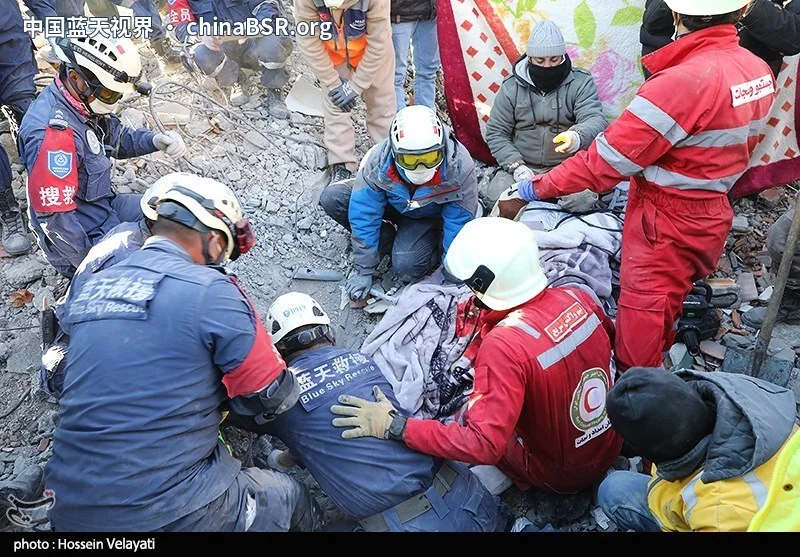
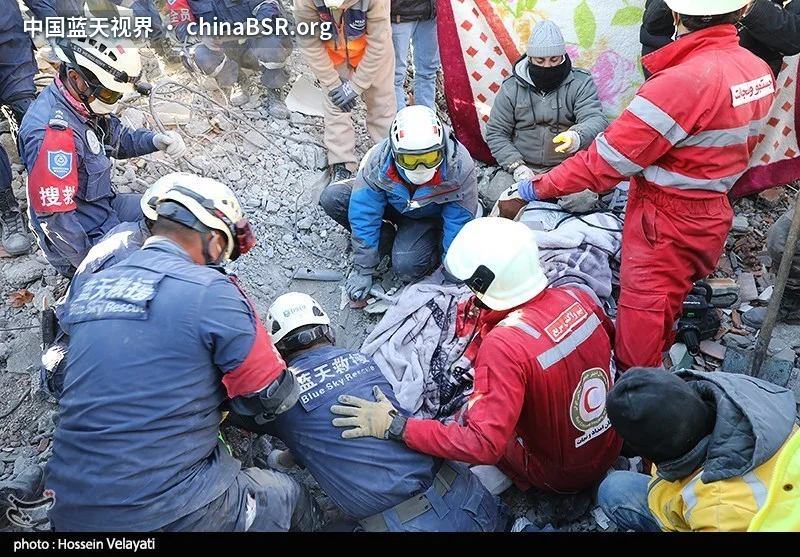
统一图片标识为浅透明底并减轻底色

Changed region(s): [[0.0312, 0.0, 0.4375, 0.0916]]

diff --git a/assets/site.css b/assets/site.css
@@ -1,1 +1,1 @@
-*{box-sizing:border-box}body{margin:0;color:#16354b;background:#f6f8f9;font:1rem/1.85 system-ui,"Microsoft YaHei",sans-serif}.wrap{width:min(90%,72rem);margin:auto}header{border-bottom:1px solid #ccd8df}header .wrap,.foot{display:flex;justify-content:space-between;gap:1.5rem;padding:1.2rem 0;align-items:center}.brand{font-size:1.25rem;font-weight:750;text-decoration:none}.brand span{color:#087ba7}nav{display:flex;gap:1.2rem}a{color:#075c91;text-underline-offset:.2em}a:focus-visible,button:focus-visible{outline:3px solid #d67b20;outline-offset:3px}.content{padding:2.5rem 0 4rem}h1{font-size:clamp(1.9rem,4vw,3rem);line-height:1.4}h2{font-size:1.4rem;line-height:1.5}.lead{font-size:1.1rem;color:#496373}.cards{display:grid;grid-template-columns:repeat(3,1fr);gap:1.5rem}.card{background:white;border:1px solid #dce5ea;border-radius:.6rem;overflow:hidden;text-decoration:none;color:inherit}.card img{width:100%;height:200px;object-fit:cover}.card div{padding:1.1rem}.card h2{font-size:1.15rem}.card p{color:#496373}.card span,.meta{color:#526979;font-size:.9rem}.article{max-width:48rem;margin:auto}.article p{line-height:2}.article figure{margin:2rem 0}.article img{width:100%;max-height:480px;object-fit:cover}.article figcaption{font-size:.85rem;color:#526979}.sources,.related{border-top:1px solid #ccd8df;margin-top:2rem;padding-top:1rem}.filters{display:flex;gap:.7rem;flex-wrap:nowrap;overflow-x:auto;max-width:100%;margin:1.5rem 0;padding-bottom:.35rem;-webkit-overflow-scrolling:touch}.filters button{flex:0 0 auto;white-space:nowrap}.filters button{font:inherit;border:1px solid #b5c8d3;padding:.4rem .9rem;border-radius:2rem;background:white;color:#16354b;cursor:pointer}.filters button[aria-pressed=true]{background:#16354b;color:white}footer{background:#102739;color:#cbdce6;padding:1rem 0 1.5rem}footer a{color:white}.foot nav{display:grid}.footnote{font-size:.9rem;border-top:1px solid #375367;padding-top:1rem}.home-news{padding:3rem 0}.card[hidden]{display:none}@media(max-width:800px){.cards{grid-template-columns:repeat(2,1fr)}}@media(max-width:550px){.cards{grid-template-columns:1fr}header .wrap,.foot{align-items:flex-start;flex-direction:column;gap:.6rem}nav{gap:1rem}.content{padding-top:1.5rem}}.latest-news{padding:0;list-style:none}.latest-news li{display:flex;gap:1em;align-items:baseline;padding:.6em 0;border-bottom:1px solid #dce5ea}.latest-news time,.news-list time{white-space:nowrap;color:#526979;font-size:.85rem}.news-list:has(.card:not([hidden])){margin-bottom:1.5rem}.photo-feature{display:grid;grid-template-columns:minmax(0,1fr) minmax(0,1fr);align-items:center;margin:1rem 0 1.5rem}.photo-feature img{display:block;height:auto}.photo-feature h2{font-size:clamp(1.15rem,2vw,1.65rem)}@media(max-width:600px){.photo-feature{grid-template-columns:1fr}}.story-nav{display:grid;grid-template-columns:repeat(2,minmax(0,1fr));margin:2rem 0;border-block:1px solid #ccd8df}.story-nav a{padding:.85rem 0;text-decoration:none}.story-nav a:hover,.story-nav a:focus-visible{text-decoration:underline}.story-nav small{display:block;color:#526979}.story-nav [rel=next]{grid-column:2}.news-list img{height:auto;aspect-ratio:1080/560;object-fit:contain;display:block}@media(max-width:600px){.story-nav{grid-template-columns:1fr;gap:0}.story-nav [rel=next]{grid-column:auto}}.archive-photo{position:relative;display:block}.archive-photo img{display:block}.archive-photo::after,.hero::after{content:"中国蓝天视界 · chinaBSR.org";position:absolute;top:.65rem;left:.75rem;z-index:1;color:white;background:rgba(9,29,45,.65);padding:.12rem .43rem;border-radius:.18rem;font:600 clamp(.68rem,1.1vw,.84rem)/1.5 system-ui,sans-serif;white-space:nowrap;pointer-events:none}
+*{box-sizing:border-box}body{margin:0;color:#16354b;background:#f6f8f9;font:1rem/1.85 system-ui,"Microsoft YaHei",sans-serif}.wrap{width:min(90%,72rem);margin:auto}header{border-bottom:1px solid #ccd8df}header .wrap,.foot{display:flex;justify-content:space-between;gap:1.5rem;padding:1.2rem 0;align-items:center}.brand{font-size:1.25rem;font-weight:750;text-decoration:none}.brand span{color:#087ba7}nav{display:flex;gap:1.2rem}a{color:#075c91;text-underline-offset:.2em}a:focus-visible,button:focus-visible{outline:3px solid #d67b20;outline-offset:3px}.content{padding:2.5rem 0 4rem}h1{font-size:clamp(1.9rem,4vw,3rem);line-height:1.4}h2{font-size:1.4rem;line-height:1.5}.lead{font-size:1.1rem;color:#496373}.cards{display:grid;grid-template-columns:repeat(3,1fr);gap:1.5rem}.card{background:white;border:1px solid #dce5ea;border-radius:.6rem;overflow:hidden;text-decoration:none;color:inherit}.card img{width:100%;height:200px;object-fit:cover}.card div{padding:1.1rem}.card h2{font-size:1.15rem}.card p{color:#496373}.card span,.meta{color:#526979;font-size:.9rem}.article{max-width:48rem;margin:auto}.article p{line-height:2}.article figure{margin:2rem 0}.article img{width:100%;max-height:480px;object-fit:cover}.article figcaption{font-size:.85rem;color:#526979}.sources,.related{border-top:1px solid #ccd8df;margin-top:2rem;padding-top:1rem}.filters{display:flex;gap:.7rem;flex-wrap:nowrap;overflow-x:auto;max-width:100%;margin:1.5rem 0;padding-bottom:.35rem;-webkit-overflow-scrolling:touch}.filters button{flex:0 0 auto;white-space:nowrap}.filters button{font:inherit;border:1px solid #b5c8d3;padding:.4rem .9rem;border-radius:2rem;background:white;color:#16354b;cursor:pointer}.filters button[aria-pressed=true]{background:#16354b;color:white}footer{background:#102739;color:#cbdce6;padding:1rem 0 1.5rem}footer a{color:white}.foot nav{display:grid}.footnote{font-size:.9rem;border-top:1px solid #375367;padding-top:1rem}.home-news{padding:3rem 0}.card[hidden]{display:none}@media(max-width:800px){.cards{grid-template-columns:repeat(2,1fr)}}@media(max-width:550px){.cards{grid-template-columns:1fr}header .wrap,.foot{align-items:flex-start;flex-direction:column;gap:.6rem}nav{gap:1rem}.content{padding-top:1.5rem}}.latest-news{padding:0;list-style:none}.latest-news li{display:flex;gap:1em;align-items:baseline;padding:.6em 0;border-bottom:1px solid #dce5ea}.latest-news time,.news-list time{white-space:nowrap;color:#526979;font-size:.85rem}.news-list:has(.card:not([hidden])){margin-bottom:1.5rem}.photo-feature{display:grid;grid-template-columns:minmax(0,1fr) minmax(0,1fr);align-items:center;margin:1rem 0 1.5rem}.photo-feature img{display:block;height:auto}.photo-feature h2{font-size:clamp(1.15rem,2vw,1.65rem)}@media(max-width:600px){.photo-feature{grid-template-columns:1fr}}.story-nav{display:grid;grid-template-columns:repeat(2,minmax(0,1fr));margin:2rem 0;border-block:1px solid #ccd8df}.story-nav a{padding:.85rem 0;text-decoration:none}.story-nav a:hover,.story-nav a:focus-visible{text-decoration:underline}.story-nav small{display:block;color:#526979}.story-nav [rel=next]{grid-column:2}.news-list img{height:auto;aspect-ratio:1080/560;object-fit:contain;display:block}@media(max-width:600px){.story-nav{grid-template-columns:1fr;gap:0}.story-nav [rel=next]{grid-column:auto}}.archive-photo{position:relative;display:block}.archive-photo img{display:block}.archive-photo::after,.hero::after{content:"中国蓝天视界 · chinaBSR.org";position:absolute;top:.65rem;left:.75rem;z-index:1;color:white;background:rgba(9,29,45,.20);text-shadow:0 1px 2px rgba(9,29,45,.85);padding:.12rem .43rem;border-radius:.18rem;font:600 clamp(.68rem,1.1vw,.84rem)/1.5 system-ui,sans-serif;white-space:nowrap;pointer-events:none}

diff --git a/build.py b/build.py
@@ -24,7 +24,7 @@ css='''*{box-sizing:border-box}body{margin:0;color:#16354b;background:#f6f8f9;fo
 css += '.latest-news{padding:0;list-style:none}.latest-news li{display:flex;gap:1em;align-items:baseline;padding:.6em 0;border-bottom:1px solid #dce5ea}.latest-news time,.news-list time{white-space:nowrap;color:#526979;font-size:.85rem}.news-list:has(.card:not([hidden])){margin-bottom:1.5rem}'
 css += '.photo-feature{display:grid;grid-template-columns:minmax(0,1fr) minmax(0,1fr);align-items:center;margin:1rem 0 1.5rem}.photo-feature img{display:block;height:auto}.photo-feature h2{font-size:clamp(1.15rem,2vw,1.65rem)}@media(max-width:600px){.photo-feature{grid-template-columns:1fr}}'
 css += '.story-nav{display:grid;grid-template-columns:repeat(2,minmax(0,1fr));margin:2rem 0;border-block:1px solid #ccd8df}.story-nav a{padding:.85rem 0;text-decoration:none}.story-nav a:hover,.story-nav a:focus-visible{text-decoration:underline}.story-nav small{display:block;color:#526979}.story-nav [rel=next]{grid-column:2}.news-list img{height:auto;aspect-ratio:1080/560;object-fit:contain;display:block}@media(max-width:600px){.story-nav{grid-template-columns:1fr;gap:0}.story-nav [rel=next]{grid-column:auto}}'
-css += '.archive-photo{position:relative;display:block}.archive-photo img{display:block}.archive-photo::after,.hero::after{content:"中国蓝天视界 · chinaBSR.org";position:absolute;top:.65rem;left:.75rem;z-index:1;color:white;background:rgba(9,29,45,.65);padding:.12rem .43rem;border-radius:.18rem;font:600 clamp(.68rem,1.1vw,.84rem)/1.5 system-ui,sans-serif;white-space:nowrap;pointer-events:none}'
+css += '.archive-photo{position:relative;display:block}.archive-photo img{display:block}.archive-photo::after,.hero::after{content:"中国蓝天视界 · chinaBSR.org";position:absolute;top:.65rem;left:.75rem;z-index:1;color:white;background:rgba(9,29,45,.20);text-shadow:0 1px 2px rgba(9,29,45,.85);padding:.12rem .43rem;border-radius:.18rem;font:600 clamp(.68rem,1.1vw,.84rem)/1.5 system-ui,sans-serif;white-space:nowrap;pointer-events:none}'
 write('assets/site.css',css)
 news = sorted(json.loads((R/'content/news.json').read_text()), key=lambda a: a['when'], reverse=True)
 catalog = {a['slug']: a for a in articles + news}
